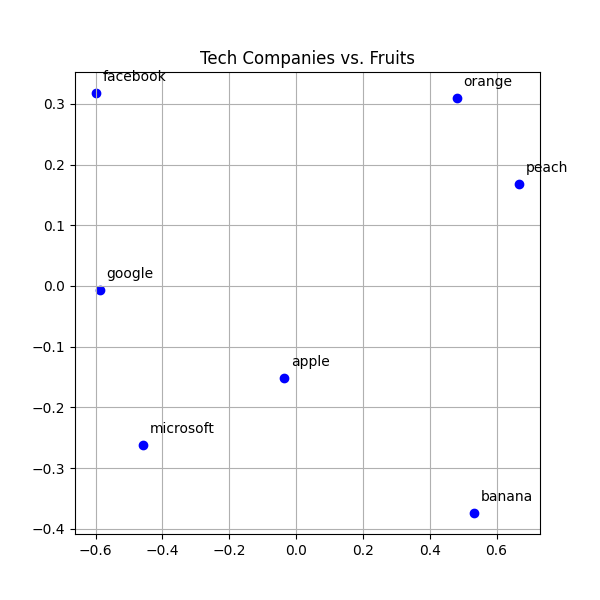
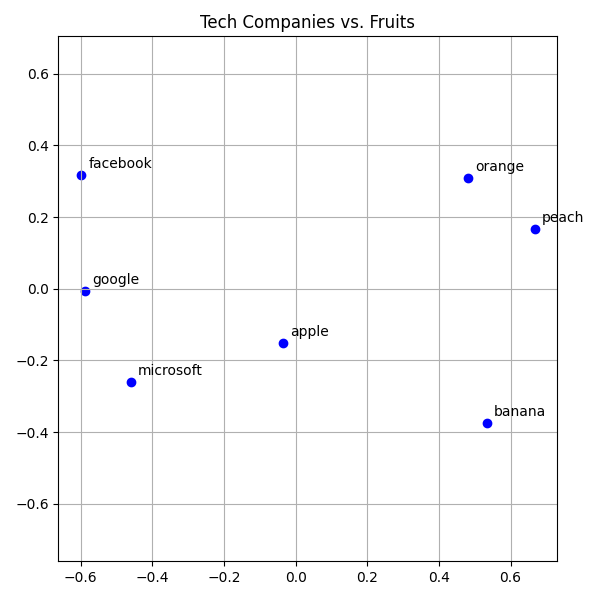
small updated to make launching the demos from VSCoode easier

diff --git a/src/similarity.py b/src/similarity.py
@@ -17,34 +17,34 @@ def load_vectors(filepath: str) -> dict[str, np.ndarray]:
     return word_vectors
 
 
-def most_similar(v: dict[str, np.ndarray], word: str, top_k: int = 10) -> list[tuple[float, str]]:
+def most_similar(word: str, v: dict[str, np.ndarray], top_k: int = 10) -> list[tuple[str, float]]:
     """
     Find the top_k most similar words to the word based on cosine similarity
-    :param v: Dictionary of word vectors
     :param word: The word to find similar words for
+    :param v: Dictionary of word vectors
     :param top_k: Number of similar words to return
-    :return: List of tuples (similarity, word) sorted by similarity in descending order
+    :return: List of tuples (word, similarity) sorted by similarity in descending order
     """
     sims = []
-    target = v.get(word)
-    if target is not None:
-        for w, vec in v.items():
+    if target := v.get(word):
+        for w, vec in v.items():  # Iterate over all word vectors
             if w != word:
                 similarity = np.dot(target, vec)  # cosine similarity for normalized vectors
-                if len(sims) < top_k or similarity > sims[-1][0]:
-                    sims.append((similarity, w))
-                    sims.sort(reverse=True, key=lambda x: x[0])
+                if len(sims) < top_k or similarity > sims[-1][1]:
+                    sims.append((w, similarity))
+                    sims.sort(reverse=True, key=lambda x: x[1])  # keep sorted
+                    if len(sims) > top_k:
+                        sims.pop()
     return sims
 
 
 if __name__ == "__main__":
-    if len(argv) != 2:
-        print("Usage: python src/similar_words.py <glove_filepath>")
-        exit(1)
-    vectors = load_vectors(argv[1])
+    mdl = "models/wikigiga_50d.txt" if len(argv) != 2 else argv[1]
+    vectors = load_vectors(mdl)
+    print(f"Loaded {len(vectors):,} word vectors from {mdl}")
     while True:
         target_word = input("Enter a word to find similar words: ").strip().lower()
-        neighbors = most_similar(vectors, target_word)
-        print(f"\nTop 10 words similar to '{target_word}':")
-        for sim, wrd in neighbors:
+        neighbors = most_similar(target_word, vectors)
+        print(f"\nTop {len(neighbors)} words similar to '{target_word}':")
+        for wrd, sim in neighbors:
             print(f"{wrd:15}  {sim:.3f}")

diff --git a/src/sbert.py b/src/sbert.py
@@ -1,25 +1,54 @@
 """ Same word, different meanings (Transformers vs GloVe) """
+import matplotlib.pyplot as plt
+from sklearn.decomposition import PCA
 from sentence_transformers import SentenceTransformer, util
 
 # Load a small pre-trained transformer
 model = SentenceTransformer("all-MiniLM-L6-v2")
-
 sentences = [
     "He sat on the river bank.",
     "She deposited money at the bank.",
-    "The shore was calm and peaceful.",
-    "The coins were safely stored."
+    "The boat was tied to the shore.",
+    "The check was safely deposited."
 ]
 
 # Encode full sentences
 vec = model.encode(sentences)
+
+# Reduce to 2D
+points = PCA(n_components=2).fit_transform(vec)
+
+# Plot
+plt.figure(1)
+plt.title("Sentence Embeddings (Transformers)")
+for (x, y), label in zip(points, sentences):
+    plt.scatter(x, y, c="green", edgecolors="w", linewidth=0.05)
+    plt.text(x+0.03, y-0.1, label, fontsize=10)
+plt.xlim(-1, 1)
+plt.ylim(-1, 1)
+plt.grid()
+plt.tight_layout()
 
 # Cosine similarity
 s0 = util.cos_sim(vec[0], vec[2])
 s1 = util.cos_sim(vec[0], vec[3])
 s2 = util.cos_sim(vec[1], vec[2])
 s3 = util.cos_sim(vec[1], vec[3])
-print(f"Similarity ((river) bank, shore): {s0.item():.4f}")
-print(f"Similarity ((river) bank, coins stored): {s1.item():.4f}")
-print(f"Similarity ((money) bank, shore): {s2.item():.4f}")
-print(f"Similarity ((money) bank, coins stored): {s3.item():.4f}")
+print(f"river bank ~ shore: {s0[0][0]:.2f}")
+print(f"river bank ~ deposited: {s1[0][0]:.2f}")
+print(f"money bank ~ shore: {s2[0][0]:.2f}")
+print(f"money bank ~ deposited: {s3[0][0]:.2f}")
+
+# Visualize these similarities in a bar chart
+labels = [
+    "river bank ~ shore",
+    "river bank ~ deposited",
+    "money bank ~ shore",
+    "money bank ~ deposited"
+]
+values = [s0[0][0], s1[0][0], s2[0][0], s3[0][0]]
+plt.figure(2)
+plt.barh(labels, values)
+plt.xlabel("Cosine Similarity")
+plt.title("Semantic Similarity of 'bank' in Different Contexts")
+plt.show()

diff --git a/src/analogy.py b/src/analogy.py
@@ -20,11 +20,11 @@ def load_vectors(filepath: str) -> dict[str, np.ndarray]:
     return word_vectors
 
 
-def analogy(v: dict[str, np.ndarray], words: list[str]) -> str:
+def analogy(words: list[str], v: dict[str, np.ndarray]) -> str:
     """
     Finds the missing word in an analogy:
-    :param vectors: Dictionary of word vectors
     :param words: List of three words [word1, word2, word3]
+    :param vectors: Dictionary of word vectors
     :return: The word that best completes the analogy 1 is to 2 as 3 is to ?
     """
     target = v[words[2]] - v[words[0]] + v[words[1]]  # e.g.: KING - QUEEN == MAN - WOMAN
@@ -34,16 +34,15 @@ def analogy(v: dict[str, np.ndarray], words: list[str]) -> str:
 
 
 if __name__ == "__main__":
-    if len(argv) != 2:
-        print("Usage: python src/analogy.py <glove_filepath>")
-        exit(1)
-    vectors = load_vectors(argv[1])
+    mdl = "models/wikigiga_50d.txt" if len(argv) != 2 else argv[1]
+    vectors = load_vectors(mdl)
+    print(f"Loaded {len(vectors):,} word vectors from {mdl}")
     while True:
         words = input("Enter 3 words like 'king queen man': ").strip().lower().split()
         if len(words) != 3:
             print("Please enter exactly 3 words.")
             continue
         try:
-            print(f"{words[0]} is to {words[1]} as {words[2]} is to {analogy(vectors, words)}\n")
+            print(f"{words[0]} is to {words[1]} as {words[2]} is to {analogy(words, vectors)}\n")
         except KeyError as e:
             print(f"'{e}' was not found in the vocabulary")

diff --git a/src/outlier.py b/src/outlier.py
@@ -19,7 +19,7 @@ def load_vectors(filepath: str) -> dict[str, np.ndarray]:
     return word_vectors
 
 
-def outlier(v: dict[str, np.ndarray], words: list[str]) -> str:
+def outlier(words: list[str], v: dict[str, np.ndarray]) -> str:
     """
     Finds the outlier word in a list of words:
     :param vectors: Dictionary of word vectors
@@ -36,17 +36,16 @@ def outlier(v: dict[str, np.ndarray], words: list[str]) -> str:
 
 
 if __name__ == "__main__":
-    if len(argv) != 2:
-        print("Usage: python src/outlier.py <glove_filepath>")
-        exit(1)
-    vectors = load_vectors(argv[1])
+    mdl = "models/wikigiga_50d.txt" if len(argv) != 2 else argv[1]
+    vectors = load_vectors(mdl)
+    print(f"Loaded {len(vectors):,} word vectors from {mdl}")
     while True:
         words = input(
-            "Enter more than 3 words like 'berlin paris london munich': ").strip().lower().split()
+            "Enter more than 3 words like 'car bike house plane': ").strip().lower().split()
         if len(words) <= 3:
             print("Please enter more than 3 words.")
             continue
         try:
-            print(f"The outlier is: {outlier(vectors, words)}\n")
+            print(f"The outlier is: {outlier(words, vectors)}\n")
         except KeyError as e:
             print(f"'{e}' was not found in the vocabulary")

diff --git a/src/word2vec_3d.py b/src/word2vec_3d.py
@@ -17,7 +17,6 @@ def softmax(z: np.ndarray) -> np.ndarray:
 # --- Vocabulary and Corpus ---
 vocab = ["apple", "mango", "orange", "fruit",  "broccoli",
          "potato", "spinach", "vegetable", "soft", "firm"]
-one_hot = np.diag(np.ones(len(vocab)))  # one-hot vectors
 pairs = [
     ("apple", "fruit"),
     ("mango", "fruit"),
@@ -39,6 +38,7 @@ N = 3            # embedding dimensions (hidden layer size)
 epochs = 300     # training cycles
 lr = 0.05        # learning rate
 
+one_hot = np.diag(np.ones(len(vocab)))  # one-hot vectors
 W = np.random.uniform(-1, 1, (V, N))
 U = np.random.uniform(-1, 1, (N, V))
 

diff --git a/src/training.py b/src/training.py
@@ -1,11 +1,8 @@
-"""
-Tiny Word Embedding Trainer (inputs-only update)
-"""
+""" Tiny Word Embedding Trainer (inputs-only update) """
 import numpy as np
 
 # --- Vocabulary and Corpus ---
 vocab = ["apple", "mango", "orange", "fruit", "broccoli", "potato", "spinach", "vegetable"]
-
 pairs = [
     ("apple", "fruit"),
     ("mango", "fruit"),

diff --git a/src/vectors.py b/src/vectors.py
@@ -1,6 +1,4 @@
-"""
-2-Dimensional Distributed Representation of Words
-"""
+""" 2-Dimensional Distributed Representation of Words """
 import numpy as np
 import matplotlib.pyplot as plt
 
